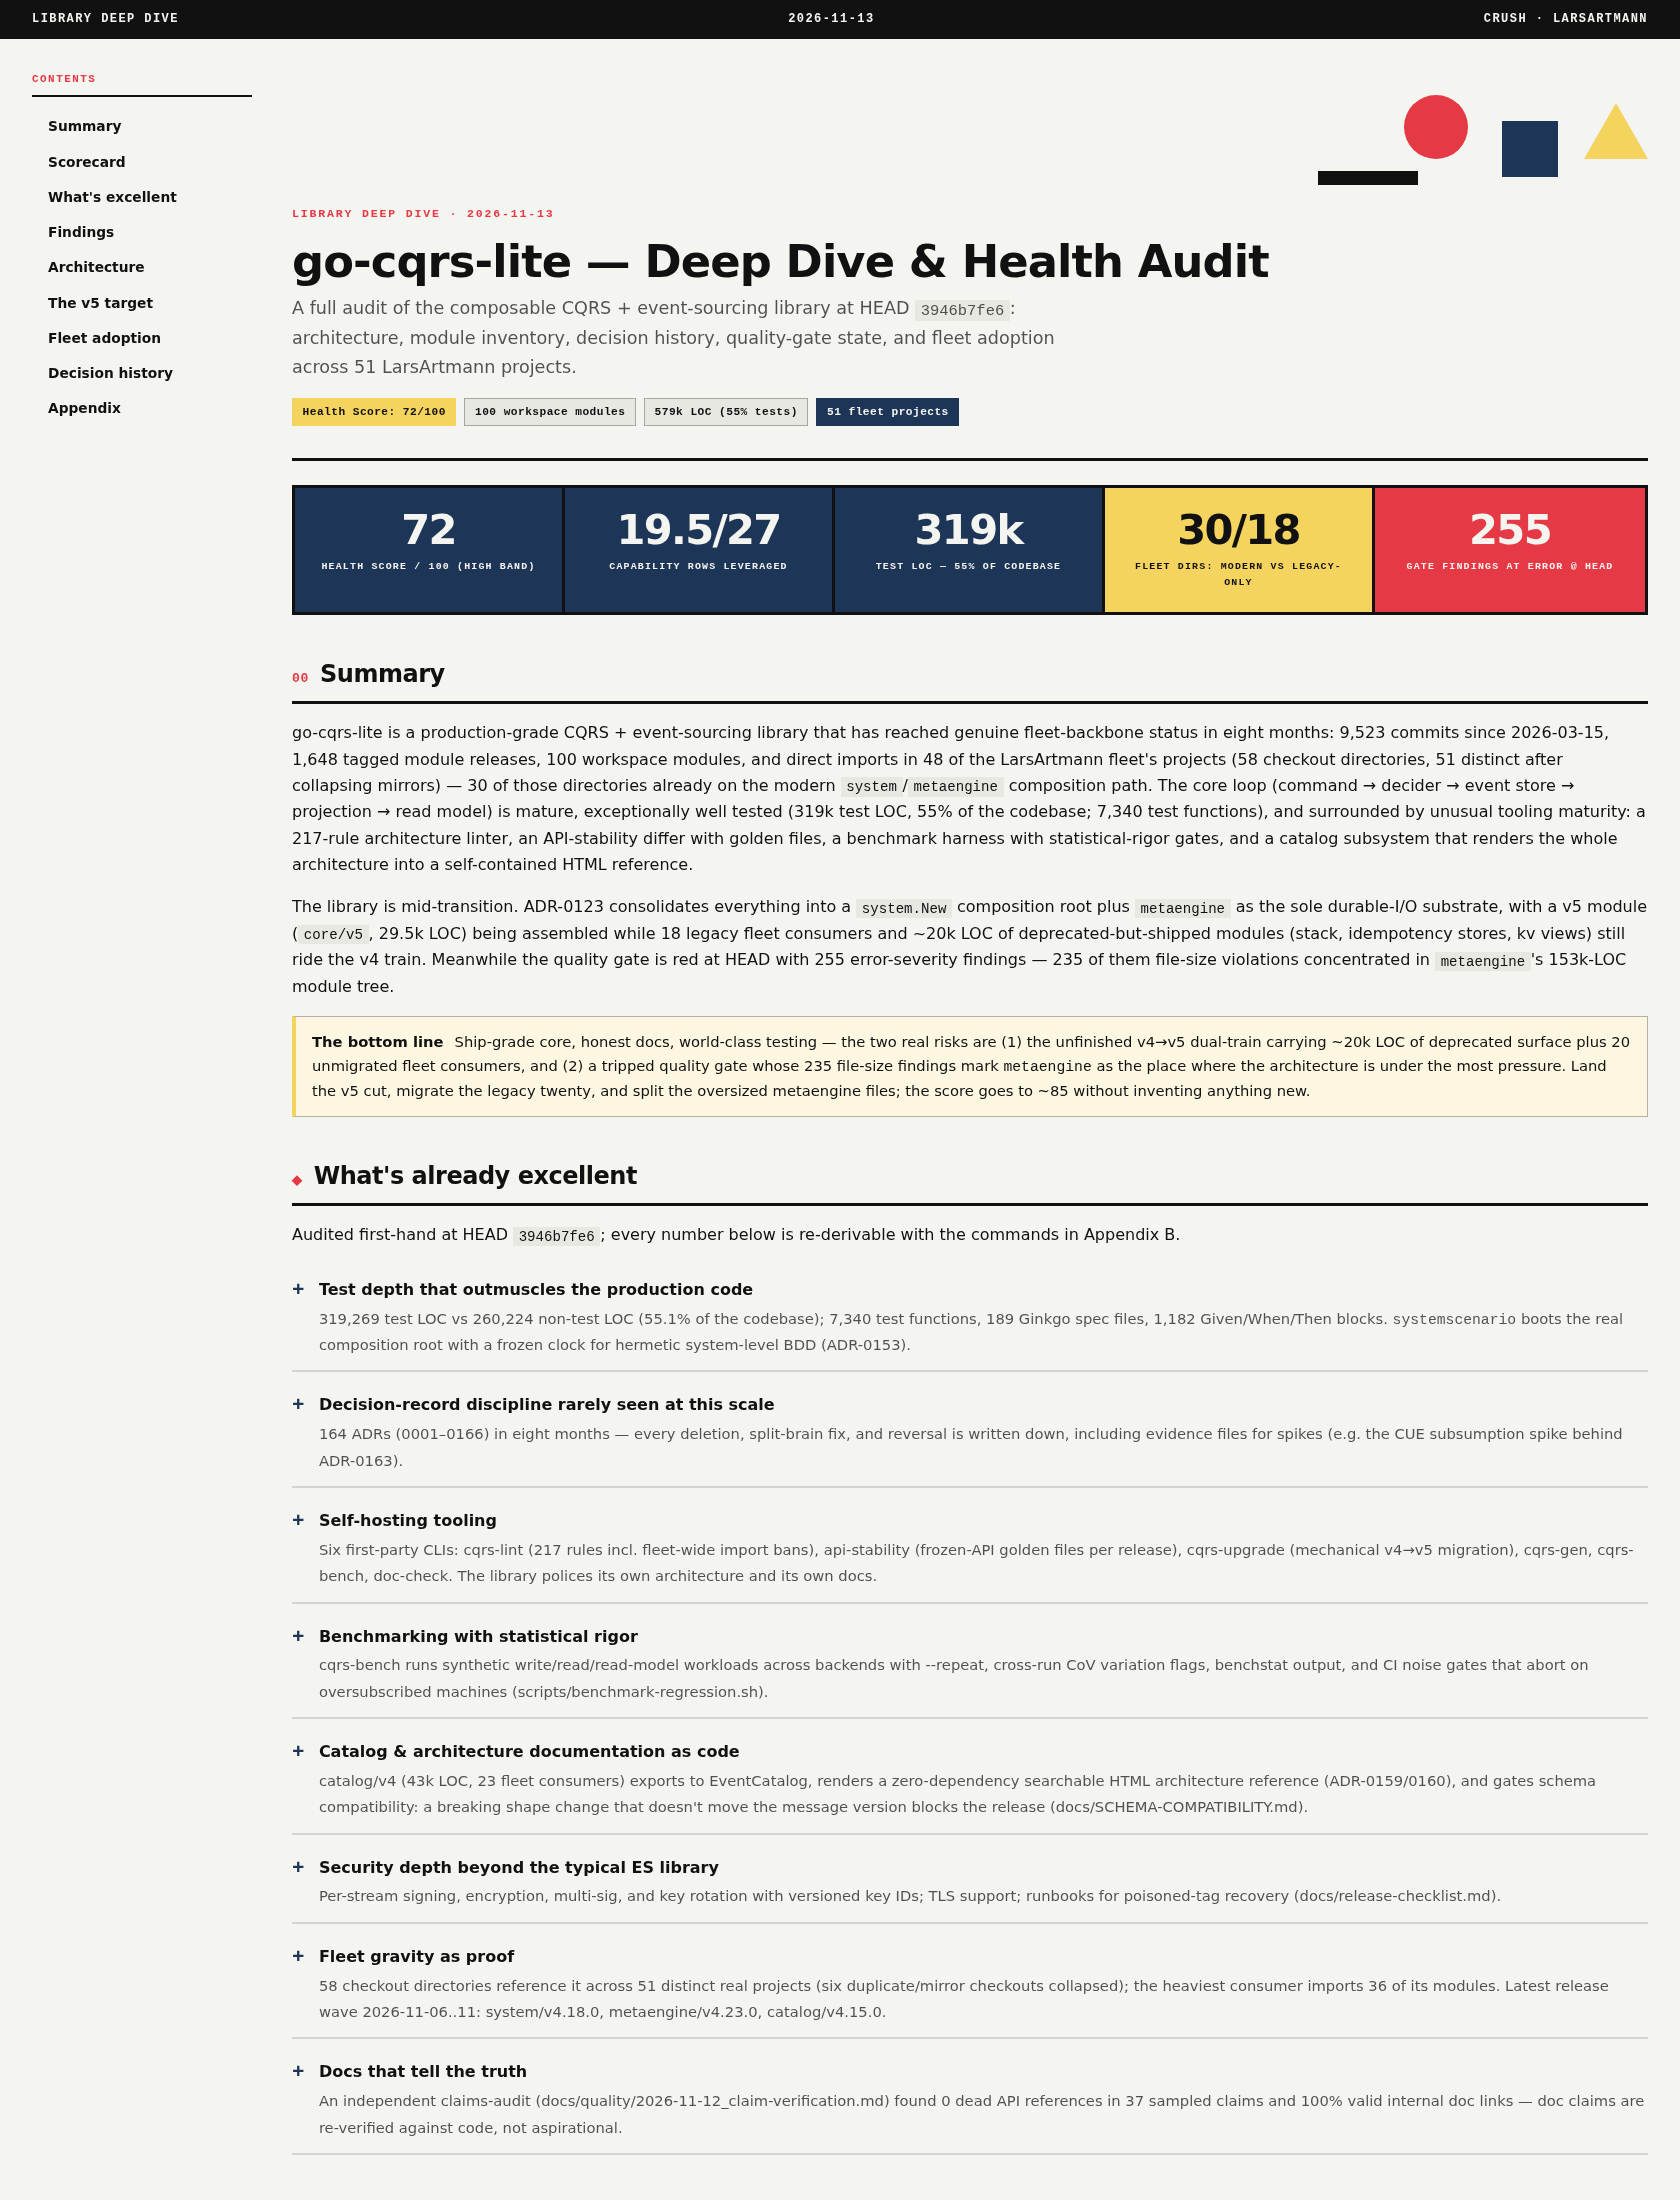
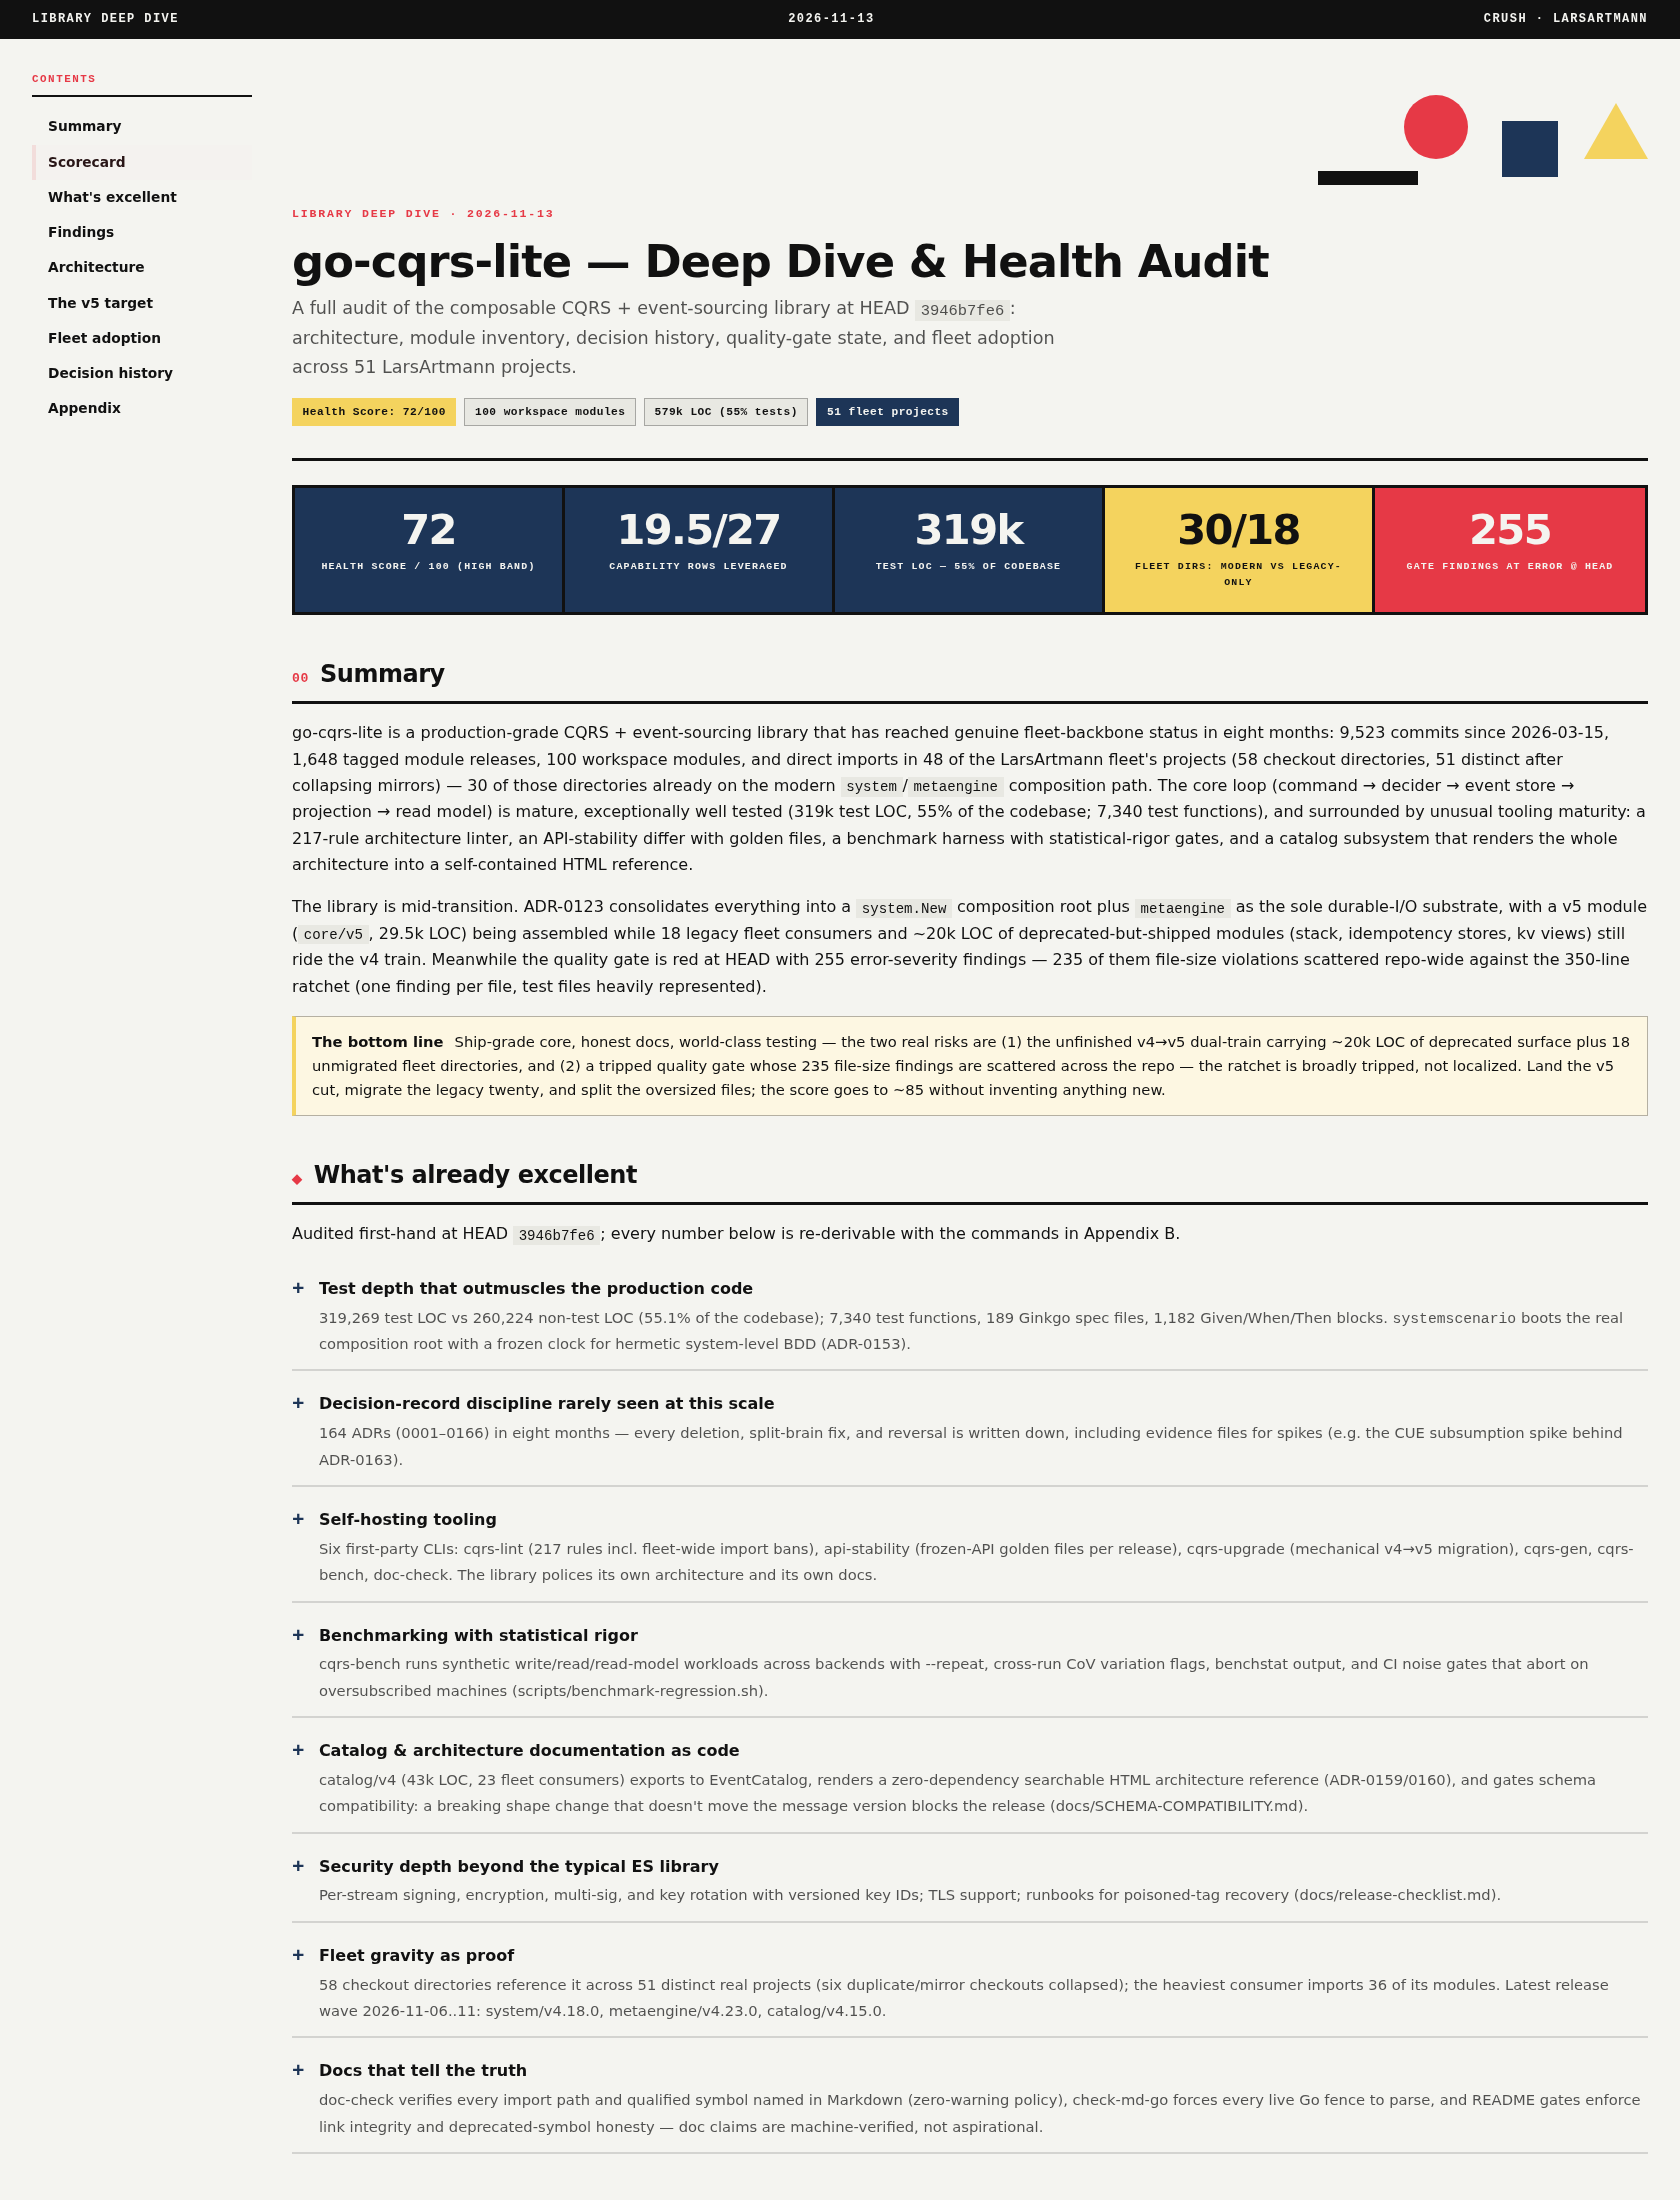
chore: auto-commit 3 changed file(s) (heuristic)
AGENTS.md
docs/assets/2026-11-13_deep-dive-screenshot.png
docs/research/2026-11-13_go-cqrs-lite-deep-dive.html

Daemon: true

diff --git a/docs/research/2026-11-13_go-cqrs-lite-deep-dive.html b/docs/research/2026-11-13_go-cqrs-lite-deep-dive.html
@@ -945,17 +945,18 @@
             LOC) being assembled while 18 legacy fleet consumers and ~20k LOC of
             deprecated-but-shipped modules (stack, idempotency stores, kv views) still
             ride the v4 train. Meanwhile the quality gate is red at HEAD with 255
-            error-severity findings — 235 of them file-size violations concentrated in
-            <code>metaengine</code>'s 153k-LOC module tree.
+            error-severity findings — 235 of them file-size violations scattered
+            repo-wide against the 350-line ratchet (one finding per file, test files
+            heavily represented).
           </p>
           <div class="callout callout-amber">
             <strong>The bottom line</strong>
             Ship-grade core, honest docs, world-class testing — the two real risks are
             (1) the unfinished v4&rarr;v5 dual-train carrying ~20k LOC of deprecated
-            surface plus 20 unmigrated fleet consumers, and (2) a tripped quality gate
-            whose 235 file-size findings mark <code>metaengine</code> as the place where
-            the architecture is under the most pressure. Land the v5 cut, migrate the
-            legacy twenty, and split the oversized metaengine files; the score goes to
+            surface plus 18 unmigrated fleet directories, and (2) a tripped quality
+            gate whose 235 file-size findings are scattered across the repo — the
+            ratchet is broadly tripped, not localized. Land the v5 cut, migrate the
+            legacy twenty, and split the oversized files; the score goes to
             ~85 without inventing anything new.
           </div>
         </section>
@@ -1058,9 +1059,10 @@
               <div class="text">
                 <strong>Docs that tell the truth</strong>
                 <span
-                  >An independent claims-audit (docs/quality/2026-11-12_claim-verification.md)
-                  found 0 dead API references in 37 sampled claims and 100% valid
-                  internal doc links — doc claims are re-verified against code, not
+                  >doc-check verifies every import path and qualified symbol named in
+                  Markdown (zero-warning policy), check-md-go forces every live Go
+                  fence to parse, and README gates enforce link integrity and
+                  deprecated-symbol honesty — doc claims are machine-verified, not
                   aspirational.</span
                 >
               </div>
@@ -1087,10 +1089,12 @@
               cqrs-lint (7), docs-gates (5), 8 more across 6 further tools
             </div>
             <p>
-              The findings gate fails with 255 findings at error severity. 235 are
-              file-size violations, concentrated in <code>metaengine</code> (153,696
-              LOC across 18 sub-go.mod files — sqliteengine alone 53k, graphengine
-              34k). Seven cqrs-lint violations mean the library's own 217-rule
+              The findings gate fails with 255 findings at error severity. 235
+              are file-size violations — one per oversized file, scattered across
+              the whole repo (watermill, catalog, cmd/cqrs-lint, core/v5,
+              signing, systemscenario, metaengine among them) against the repo's
+              350-line ratchet, with test files heavily represented. Seven
+              cqrs-lint violations mean the library's own 217-rule
               architecture linter flags its own code. docs-gates reports the
               "annotate" gate red — old status reports await annotation. None of
               this breaks the 7,340 passing tests; all of it erodes the gate's
@@ -1098,10 +1102,11 @@
             </p>
             <div class="callout callout-teal">
               <strong>Fix: triage by class, not by count</strong>
-              Split the 20 largest metaengine files (target &le;800 lines each),
-              run <code>docs-gates annotate</code> to clear the annotation
-              backlog, and fix-or-waive the seven cqrs-lint findings. The gate
-              going green again is a one-session job per class.
+              Split the 235 oversized files down toward the 350-line ratchet
+              (test files included), run <code>docs-gates annotate</code> to clear
+              the annotation backlog, and fix-or-waive the seven cqrs-lint
+              findings. The gate going green again is a one-session job per
+              class.
             </div>
           </div>
 
@@ -1488,7 +1493,7 @@ sys, err := system.<span class="tok-function">New</span>(ctx,
                 <td class="yes">Low — those modules survive</td>
               </tr>
               <tr>
-                <td>10 go.mods incl. AudibleSync, DiscordSync, games, github-local-sync</td>
+                <td>10 go.mods incl. InboxClean, browser-history, games, github-local-sync</td>
                 <td>Require removed idempotency/v4 v4.4.0</td>
                 <td class="no">Latent breakage on clean rebuild</td>
               </tr>
@@ -1575,7 +1580,7 @@ sys, err := system.<span class="tok-function">New</span>(ctx,
               <tr><td>2</td><td>Metaengine planner + engines</td><td class="no">Mixed</td><td>153k LOC, cost-based planner; per-engine modules experimental</td></tr>
               <tr><td>3</td><td>Event-sourcing core (event/decider/command/query)</td><td class="yes">Strong</td><td>Mature since ADR-0001; foundation of every consumer</td></tr>
               <tr><td>4</td><td>Read models &amp; projections</td><td class="yes">Strong</td><td>projectionhost, OnRecord folds, planned tables, matviews</td></tr>
-              <tr><td>5</td><td>Graph ADT</td><td class="no">Mixed</td><td>graphengine 34k LOC + metaengine graphadapter; thin direct adoption (0 direct graph/v4 consumers)</td></tr>
+              <tr><td>5</td><td>Graph ADT</td><td class="no">Mixed</td><td>graph.GraphDriver + metaengine graphadapter (pgengine recursive CTEs); thin direct adoption (0 direct graph/v4 consumers)</td></tr>
               <tr><td>6</td><td>Schema evolution</td><td class="yes">Strong</td><td>schema/v4 upcasters + fingerprinting + compat gate</td></tr>
               <tr><td>7</td><td>Catalog &amp; docs generation</td><td class="yes">Strong</td><td>43k LOC, 23 fleet consumers, HTML reference ADR-0159/0160</td></tr>
               <tr><td>8</td><td>Testing stack</td><td class="yes">Strong</td><td>55% test LOC, 7,340 test funcs, systemscenario ADR-0153</td></tr>
@@ -1631,7 +1636,7 @@ buildflow -s file-size-check --format finding    <span class="tok-comment"># 235
 
 <span class="tok-comment"># Fleet census</span>
 rg -l 'larsartmann/go-cqrs-lite' --glob 'go.mod' /home/lars/projects/ | grep -v go-cqrs-lite/ \
-  | cut -d/ -f5 | sort -u | wc -l                <span class="tok-comment"># referencing dirs (dedup mirrors manually)</span>
+  | cut -d/ -f5 | sort -u | wc -l                <span class="tok-comment"># 60 raw dirs; minus fixtures/testdata = 58; minus mirrors = 51 projects</span>
 rg -l 'go-cqrs-lite/idempotency/v4 ' --glob 'go.mod' /home/lars/projects/ | grep -v go-cqrs-lite/ | wc -l  <span class="tok-comment"># 10 stale requires</span></code></pre>
 
           <h2><span class="num">08</span>Appendix C — Method, series &amp; supersession</h2>

diff --git a/AGENTS.md b/AGENTS.md
@@ -114,7 +114,7 @@ Per-module isolation: `cd event && GOWORK=off go test ./... -count=1`
 
 ## Deep-Dive Reports
 
-- **2026-11-13 library deep dive** (`docs/research/2026-11-13_go-cqrs-lite-deep-dive.html`, screenshot in `docs/assets/`): health **72/100 (high)** at HEAD `3946b7fe6` — strong core, testing, catalog/tooling; top risks are the unfinished v4→v5 dual-train (~20k LOC deprecated surface, 18 legacy fleet dirs of 55, 10 go.mods on the removed `idempotency/v4`) and a red gate (255 error findings, 235 file-size @ metaengine). Supersedes the 2026-07-23 ecosystem audit (58/100). Refresh triggers: v5 module cut, fleet census crossing 40 modern consumers, or +1,000 commits. `docs/research/` still has no index README (report Finding 5).
+- **2026-11-13 library deep dive** (`docs/research/2026-11-13_go-cqrs-lite-deep-dive.html`, screenshot in `docs/assets/`): health **72/100 (high)** at HEAD `3946b7fe6` — strong core, testing, catalog/tooling; top risks are the unfinished v4→v5 dual-train (~20k LOC deprecated surface, 18 legacy fleet dirs of 55, 10 go.mods on the removed `idempotency/v4`) and a red gate (255 error findings, 235 file-size findings scattered repo-wide). Supersedes the 2026-07-23 ecosystem audit (58/100). Refresh triggers: v5 module cut, fleet census crossing 40 modern consumers, or +1,000 commits. `docs/research/` still has no index README (report Finding 5).
 
 ## Module Map
 
